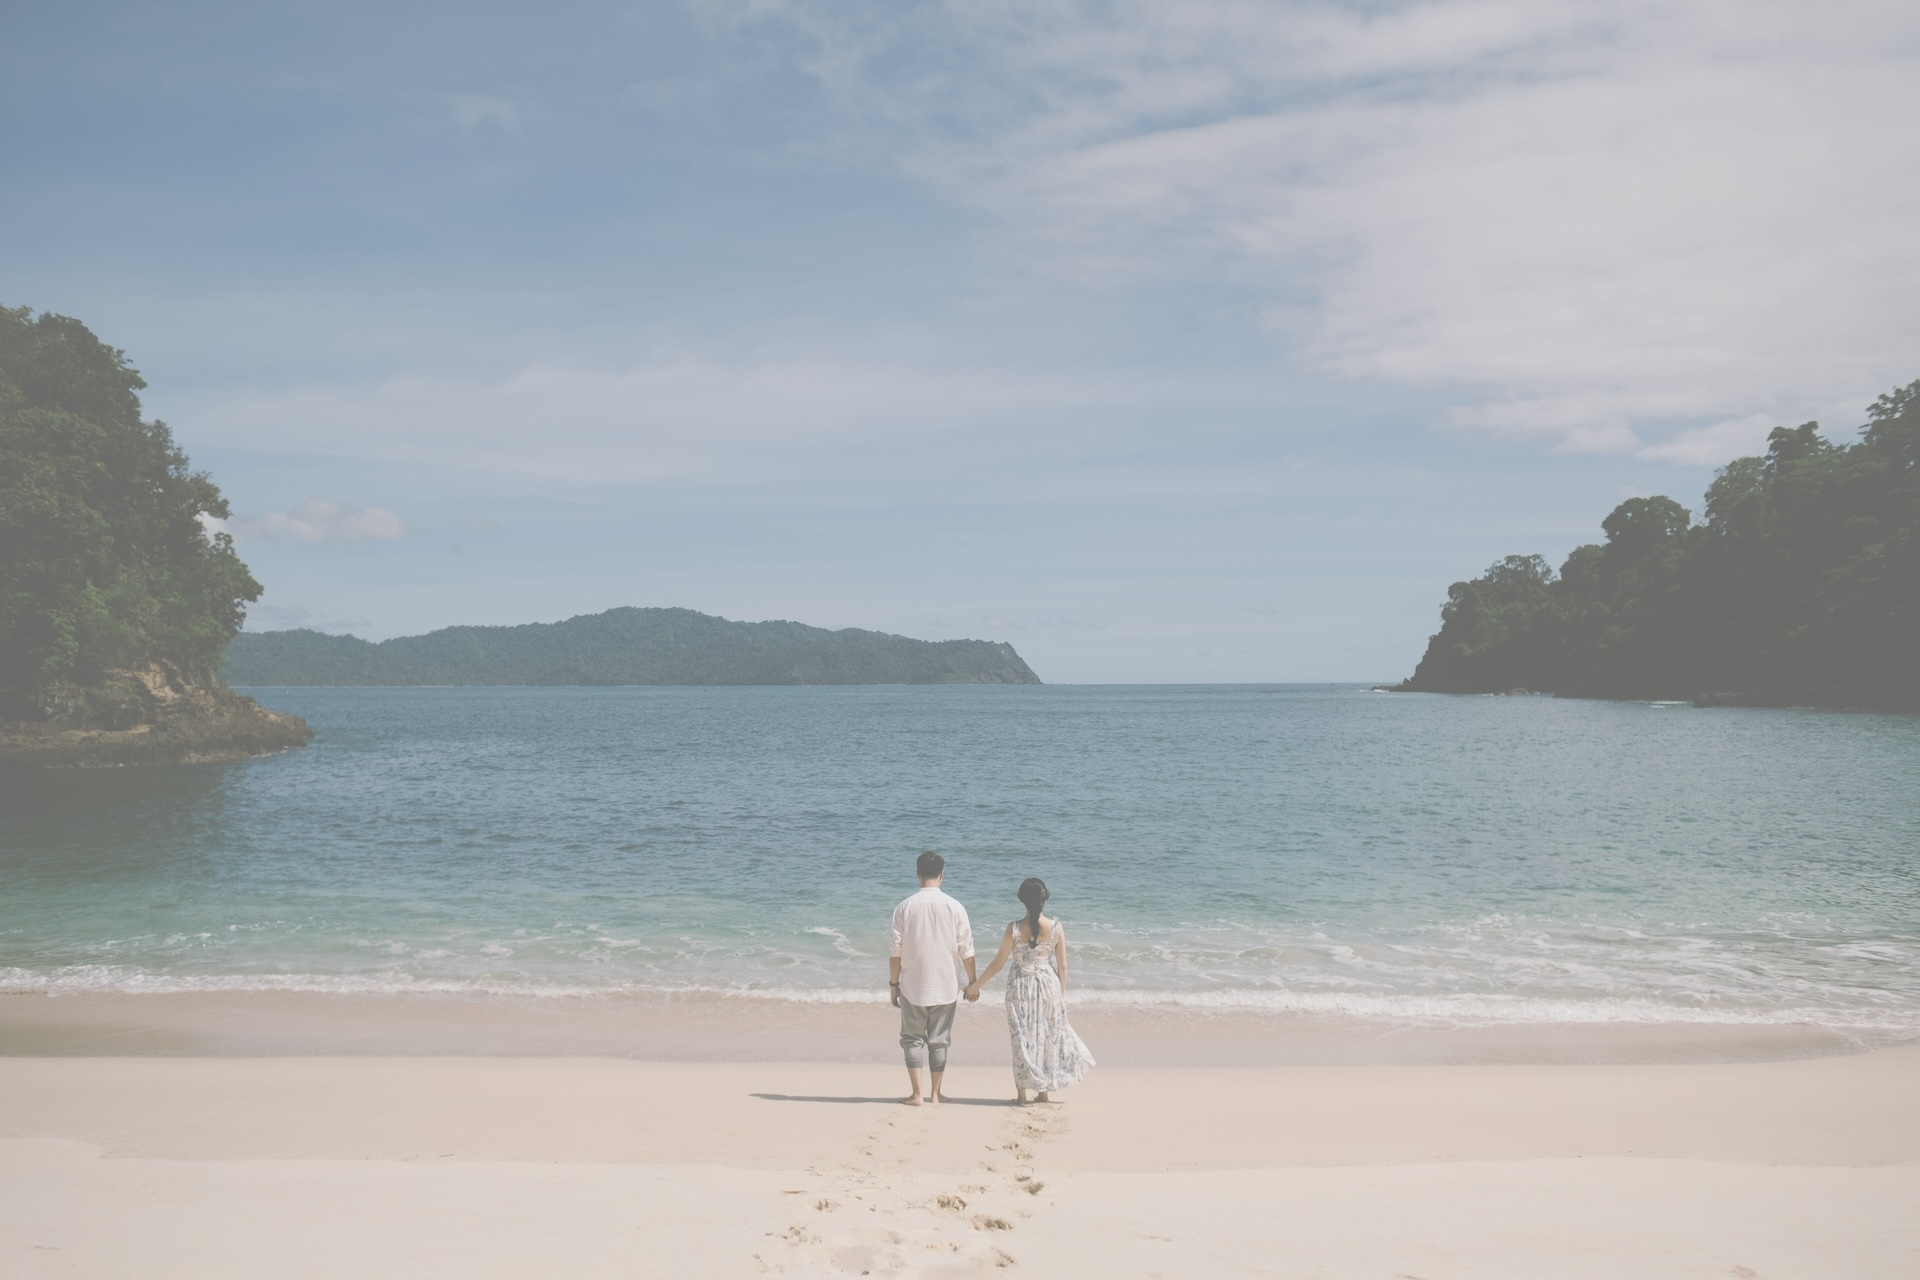
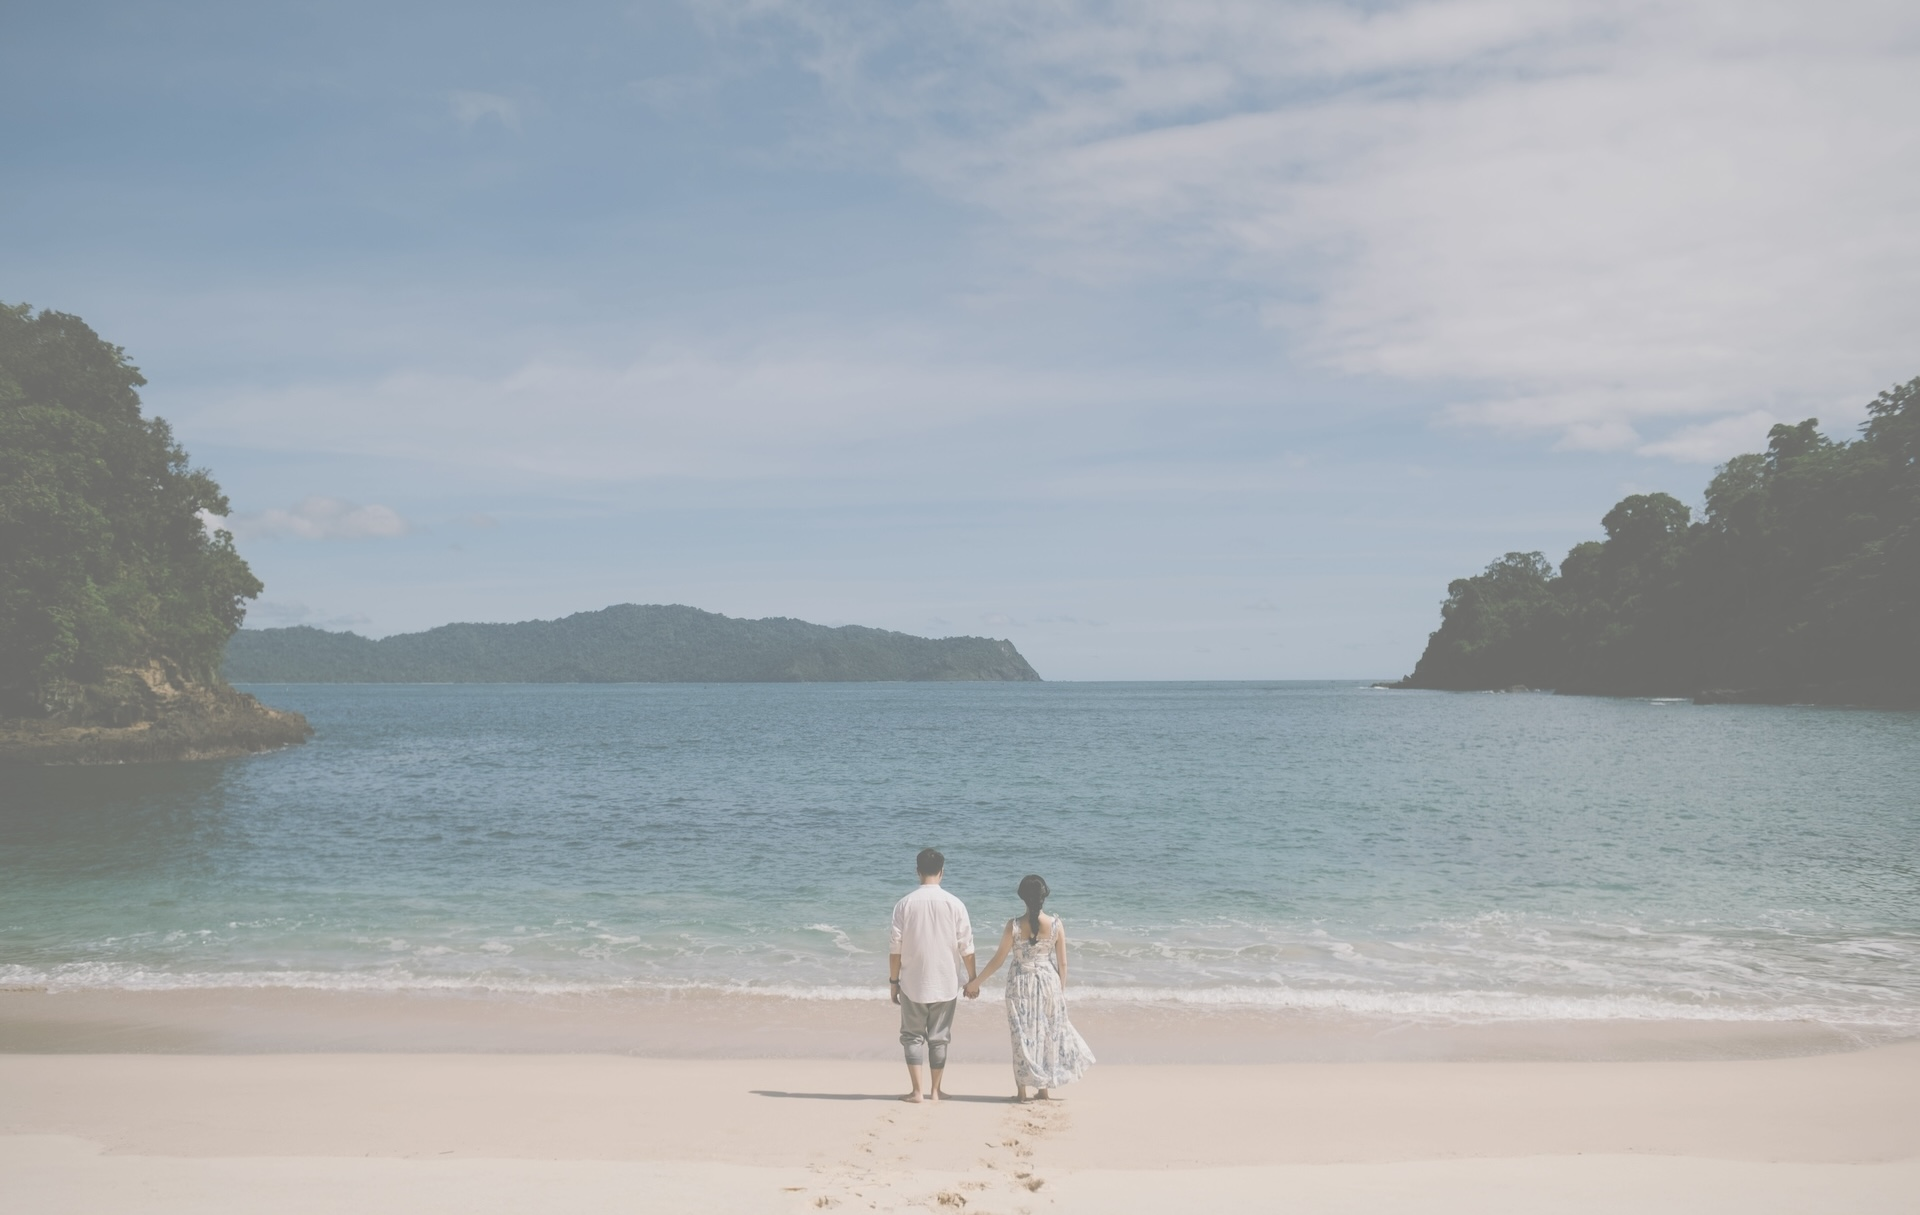
edit img

diff --git a/docs/index.html b/docs/index.html
@@ -1154,7 +1154,7 @@
       id="welcome"
       style="
         opacity: 0;
-        background: url('./assets/images/Welcome_2.jpg') center center no-repeat;
+        background: url('./assets/images/Welcome_2.jpg') center center / cover no-repeat;
       "
     >
       <div

diff --git a/index.html b/index.html
@@ -1154,7 +1154,7 @@
       id="welcome"
       style="
         opacity: 0;
-        background: url('./assets/images/Welcome_2.jpg') center center no-repeat;
+        background: url('./assets/images/Welcome_2.jpg') center center / cover no-repeat;
       "
     >
       <div
